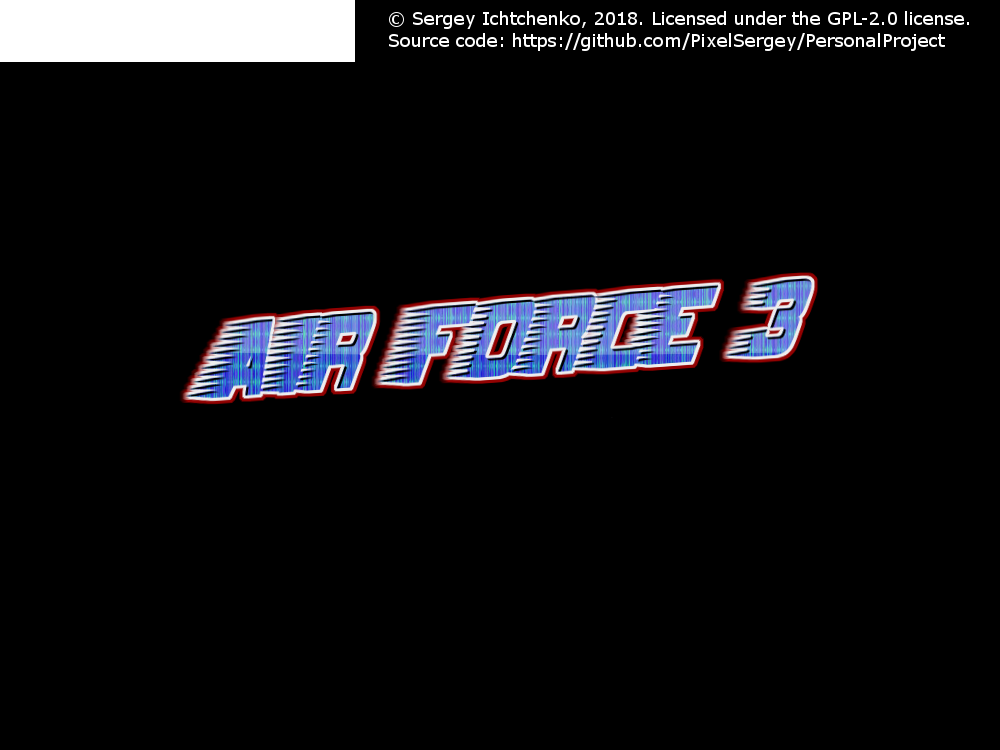
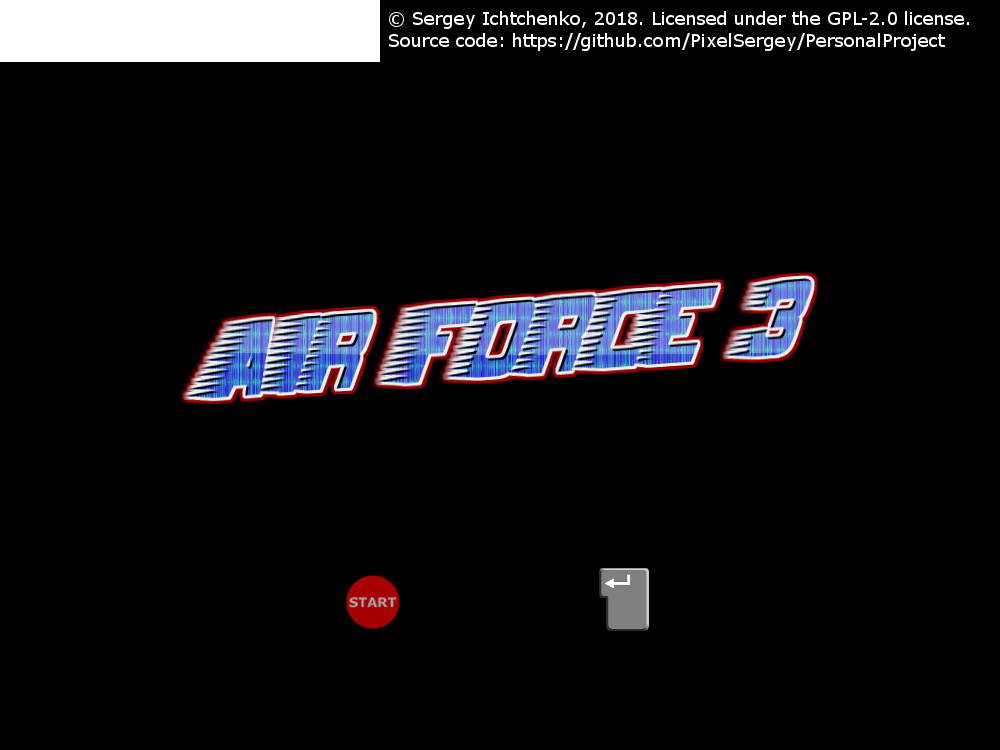
Add shooting functionality and fix bugs

Changed region(s): [[0.589, 0.736, 0.651, 0.8587], [0.341, 0.7667, 0.403, 0.8587], [0.341, 0.0, 0.403, 0.092]]

diff --git a/Game/src/me/sergey/game/GameLoop.java b/Game/src/me/sergey/game/GameLoop.java
@@ -44,6 +44,7 @@ public class GameLoop extends AnimationTimer{
     private Image background;
     private boolean first;
     private boolean canMove;
+    private boolean canFire;
     private String playerName;
     private String err;
     private HashMap<String, Double> leaderboard;
@@ -171,7 +172,7 @@ public class GameLoop extends AnimationTimer{
                 canMove = true;
             }
             if(canMove){
-                if(!inputs.isEmpty() && inputs.get("Start").equals("1")){
+                if(!inputs.isEmpty() && inputs.get("Start").equals("1") || keys.contains("Enter")){
                     start.onClick();
                 }
             }
@@ -200,15 +201,22 @@ public class GameLoop extends AnimationTimer{
         
         else if(stage > 0){ // Game Logic
             elapsed = (nanos-startNanos)/1_000_000_000.0;
+            gc.setFont(Font.font("Lucidia Fax", 18));
+            gc.setFill(Color.color(1, 1, 1));
+            gc.fillText("Ammo: " + player.getAmmo(), 10, 20);
+            gc.fillText("Score: " + elapsed, 10, 34);
+            
             if(first){ // Check whether a new stage just loaded
                 player.setXY(75, 350);
                 player.setFacing(90);
                 first = false;
                 canMove = false;
+                canFire = false;
                 return;
             }
             if(keys.isEmpty() && (inputs.isEmpty() || Collections.frequency(inputs.values(), "0") == inputs.values().size())){
                 canMove = true;
+                canFire = true;
             }
             
             if(canMove){
@@ -226,13 +234,23 @@ public class GameLoop extends AnimationTimer{
                     if(keys.contains("Right")){
                         ver++;
                     }
+                    if(keys.contains("Space")){
+                        if(canFire){
+                            player.fire();
+                            canFire = false;
+                        }
+                    }else{
+                        canFire = true;
+                    }
                     if(keys.contains("Esc")){
                         stage = 0;
+                        player.halt();
                         first = true;
                         return;
                     }
                     if(keys.contains("F12")){
                         stage++;
+                        player.halt();
                         first = true;
                         return;
                     }
@@ -241,18 +259,28 @@ public class GameLoop extends AnimationTimer{
                     if(angle == 360){
                         speed = 0;
                     }else{
-                        speed = 5;
+                        speed = 7;
                     }
                 }else{ // Controller connected and on; use controller
                     if(inputs.get("X").equals("1") && inputs.get("Y").equals("1") && inputs.get("Start").equals("1")){
                         stage++;
+                        player.halt();
                         first = true;
                         return;
                     }
                     if(inputs.get("Start").equals("1")){
                         stage = 0;
+                        player.halt();
                         first = true;
                         return;
+                    }
+                    if(inputs.get("A").equals("1") || inputs.get("B").equals("1")){
+                        if(canFire){
+                            player.fire();
+                            canFire = false;
+                        }
+                    }else{
+                        canFire = true;
                     }
                     
                     Double hor, ver;
@@ -273,6 +301,7 @@ public class GameLoop extends AnimationTimer{
                 player.move(angle, speed);
                 if(player.touchesColor(background.getPixelReader(), Color.color(0, 1, 0))){
                     stage++;
+                    player.halt();
                     first = true;
                     return;
                 }
@@ -286,9 +315,12 @@ public class GameLoop extends AnimationTimer{
             if(first){
                 playerName = "";
                 err = "";
+                canMove = false;
                 first = false;
             }
-            if(keys.isEmpty() && Collections.frequency(inputs.values(), "0") == inputs.values().size()){
+            if(keys.isEmpty() && inputs.isEmpty()){
+                canMove = true;
+            }else if(keys.isEmpty() && !inputs.isEmpty() && Collections.frequency(inputs.values(), "0") == inputs.values().size()){
                 canMove = true;
             }
             if(canMove){
@@ -321,21 +353,13 @@ public class GameLoop extends AnimationTimer{
                         err = "";
                     }
                     else if(input.equals("Enter")){
-                        err = "";
-                        if(!playerName.equals("")){
-                            leaderboard.put(playerName, elapsed);
-                            try{
-                                write.write(playerName + ":" + elapsed + ";");
-                                write.flush();
-                            }catch(NullPointerException e){
-                            }catch(IOException e){
-                                System.out.println(Arrays.toString(e.getStackTrace()));
-                            }
-                        }
-                        stage = 0;
-                        first = true;
+                        saveQuit();
                         return;
                     }
+                }
+                if(!inputs.isEmpty() && inputs.get("Start").equals("1")){
+                    saveQuit();
+                    return;
                 }
             }
             
@@ -354,7 +378,7 @@ public class GameLoop extends AnimationTimer{
             gc.setFont(Font.font("Lucida Fax", 20));
             gc.fillText("Score: " + elapsed, 310, 322);
             
-            List<Double> scores = new ArrayList(leaderboard.values());
+            List<Double> scores = new ArrayList<>(leaderboard.values());
             Collections.sort(scores);
             scores = scores.subList(0, Math.min(6, scores.size()));
             for(Double score : scores){
@@ -369,5 +393,21 @@ public class GameLoop extends AnimationTimer{
                 }
             }
         }
+    }
+    
+    public void saveQuit(){
+        err = "";
+        if(!playerName.equals("")){
+            leaderboard.put(playerName, elapsed);
+            try{
+                write.write(playerName + ":" + elapsed + ";");
+                write.flush();
+            }catch(NullPointerException e){
+            }catch(IOException e){
+                System.out.println(Arrays.toString(e.getStackTrace()));
+            }
+        }
+        stage = 0;
+        first = true;
     }
 }

diff --git a/Game/src/me/sergey/sprites/Sprite.java b/Game/src/me/sergey/sprites/Sprite.java
@@ -1,5 +1,6 @@
 package me.sergey.sprites;
 
+import java.util.ArrayList;
 import javafx.scene.canvas.GraphicsContext;
 import javafx.scene.image.Image;
 import javafx.scene.image.ImageView;
@@ -12,17 +13,25 @@ public class Sprite extends Base{
     private int angle;
     private Rotate r;
     private PixelReader sprReader;
+    private ArrayList<Sprite> projectiles;
+    private int ammo;
     
     public Sprite(GraphicsContext gc, String path){
         this(gc, path, -1, -1);
     }
     
-    public Sprite(GraphicsContext gc, String path, double x, double y) {
+    public Sprite(GraphicsContext gc, String path, double x, double y){
+        this(gc, path, x, y, 90);
+    }
+    
+    public Sprite(GraphicsContext gc, String path, double x, double y, int angle){
         super(gc, path, x, y);
         imgView = new ImageView();
         imgView.setImage(img);
-        angle = 90;
+        projectiles = new ArrayList<>();
         sprReader = img.getPixelReader();
+        this.angle = angle;
+        ammo = 10;
     }
     
     public int getFacing(){
@@ -46,8 +55,37 @@ public class Sprite extends Base{
         sprReader = img.getPixelReader();
     }
     
+    public int getAmmo(){
+        return ammo;
+    }
+    
+    public void setAmmo(int ammo){
+        this.ammo = ammo;
+    }
+    
+    public void fire(){
+        if(ammo > 0){
+            projectiles.add(new Sprite(gc, "/assets/projectile.png", getX(true), getY(true), angle));
+            ammo--;
+        }
+    }
+    
+    public void halt(){
+        projectiles.clear();
+        ammo = 10;
+    }
+    
     @Override
     public void draw(){
+        ArrayList<Sprite> toRemove = new ArrayList<>();
+        for(Sprite projectile : projectiles){
+            projectile.move(projectile.getFacing(), 12);
+            projectile.draw();
+            if(projectile.getX() <= 10 || projectile.getX() + projectile.getImg().getWidth() >= gc.getCanvas().getWidth() - 10 || projectile.getY() <= 10 || projectile.getY() + projectile.getImg().getHeight() >= gc.getCanvas().getHeight() - 10){
+                toRemove.add(projectile);
+            }
+        }
+        projectiles.removeAll(toRemove);
         if(x >= 0 && y >= 0){
             gc.save();
             r = new Rotate(angle, x+img.getWidth()/2, y+img.getHeight()/2); // Set pivot around centerpoint

diff --git a/Game/src/me/sergey/communication/Communicator.java b/Game/src/me/sergey/communication/Communicator.java
@@ -89,7 +89,7 @@ public class Communicator extends Thread{
             try{
                 data = scanner.nextLine();
                 if(data.equals("OFF")){
-                    buttons = new HashMap();
+                    buttons = new HashMap<>();
                 }else{
                     buttons = gson.fromJson(scanner.nextLine(), HashMap.class);
                 }
